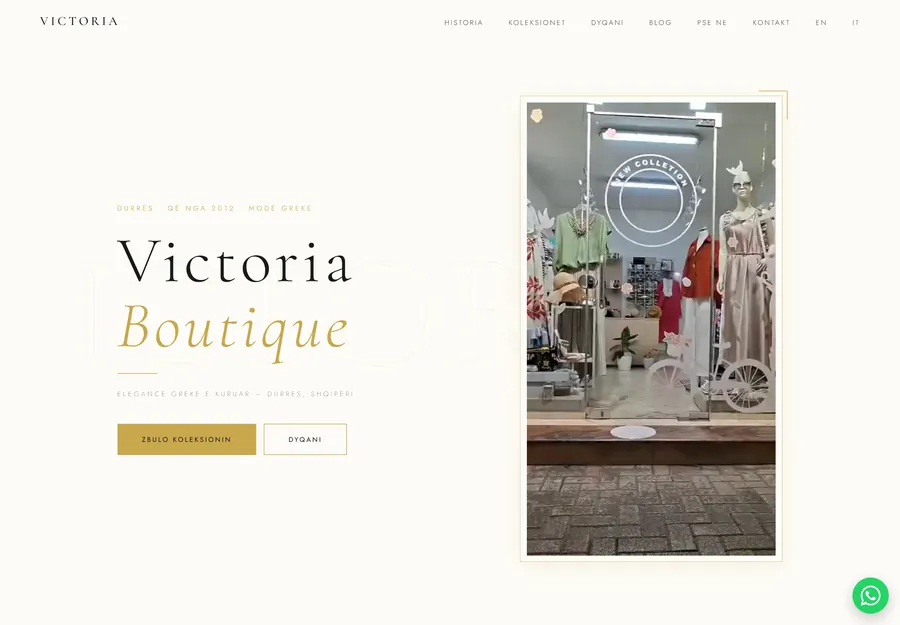
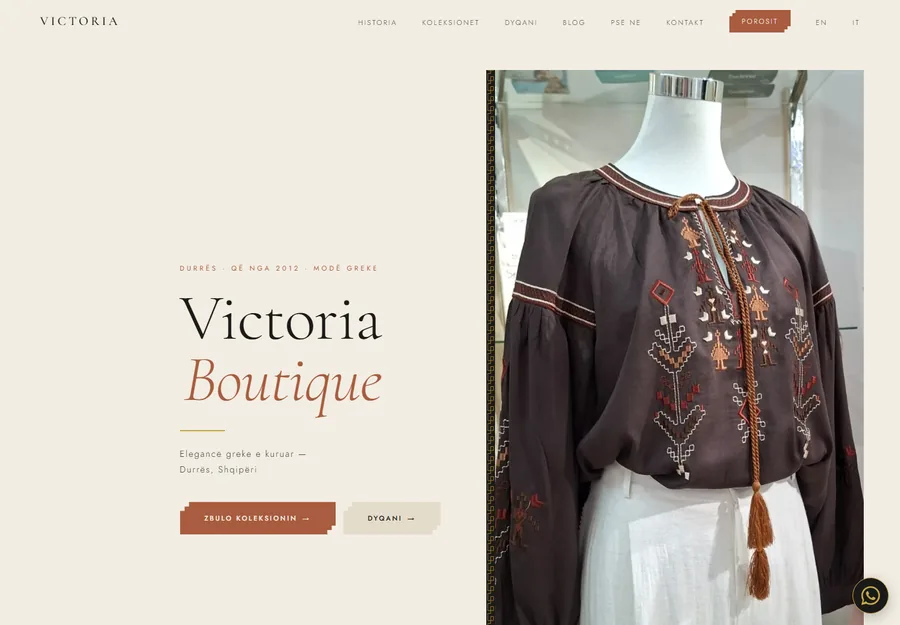
Proof: new plates for Victoria and Intimo Bruna, and alt text that matches them
Both homepages were redesigned today, so the two screenshots on /work/ were
showing sites that no longer exist. Recaptured at 1440x1000 and resized to the
plates' own 900x625 with LANCZOS and WEBP quality 82 method 6 — the same
settings assets/build_renditions.py uses, so the whole set stays encoded alike —
then the 720w renditions regenerated with that script rather than by hand.

THE ALT TEXT MATTERED MORE THAN THE PICTURES. Intimo Bruna's read "a logo card
and a headline over a photograph of the inside of the shop": the logo card and
the shop-interior video are precisely what the redesign removed. Victoria's
named "an editorial layout with the shop photographed", and the shopfront photo
is gone from that hero too. Both rewritten in all three languages to describe
what is now on screen — a screen-reader description of a previous version of the
site is worse than none, because it is confidently wrong.

Re-translated IT and SQ first, then re-stamped with .build/i18n.py --stamp.
The stamp gate is what caught this: it refused to build with the English record
changed and the two translations still claiming the old hash, which is exactly
the failure it was written for.

build_renditions.py also rewrote proof/watch-al-*-720.webp. Those were stale —
their sources changed on 3 September and the renditions had not been rebuilt
since 14 August.

GATE: still 3 findings, all pre-existing and unrelated — the Person node on the
[…]

diff --git a/sq/work/iglisi-watch/index.html b/sq/work/iglisi-watch/index.html
@@ -159,7 +159,7 @@
           <p>Kërko riparim orësh në Durrës, pastaj dyqan orësh në Durrës, në anglisht, shqip ose italisht. Pastaj bëji ChatGPT-së të njëjtat pyetje. Duam më mirë ta kontrollosh vetë sesa të na besosh në fjalë.</p>
           <p>Konkurrenca këtu janë listimet në direktori online dhe faqet e Facebook-ut. Hapësira ishte aty dhe askush nuk e kishte zënë.</p>
           <p class="payoff"><svg class="tick" viewBox="0 0 12 12" aria-hidden="true"><path d="M1 11H5V7H9V3H11" fill="none" stroke="#D8232A" stroke-width="2"/></svg>Nga asgjë te 900 klikime në tremujor.</p>
-          <p class="updated">Përditësuar më <time datetime="2026-09-03">3 shtator 2026</time></p>
+          <p class="updated">Përditësuar më <time datetime="2026-09-05">5 shtator 2026</time></p>
         </div>
 
         <aside class="side" data-reveal-group aria-label="Detaje">
@@ -209,7 +209,7 @@
             <li><span class="stat-n">8,8</span><span class="stat-l">pozicioni mesatar</span></li>
             <li><span class="stat-n">1,1%</span><span class="stat-l">përqindja e klikimeve</span></li>
           </ul>
-          <figure class="gsc"><img src="/assets/proof/watch-al-3-months.webp?v=8a8a16ff" srcset="/assets/proof/watch-al-3-months-720.webp?v=71551ff3 720w, /assets/proof/watch-al-3-months.webp?v=8a8a16ff 1440w" sizes="(min-width: 1280px) 1152px, 90vw" width="1440" height="571" alt="Google Search Console për watch.al gjatë 3 muajve. Klikimet dhe herët e shfaqura nisin të dyja afër zeros në fillim të qershorit 2026 dhe ngjiten gjatë gushtit." loading="lazy" decoding="async"><figcaption>Tre muaj: 2 qershor deri më 30 gusht 2026. 900 klikime, 82k herë e shfaqur, përqindje klikimesh 1,1%.</figcaption></figure><figure class="gsc"><img src="/assets/proof/watch-al-28-days.webp?v=9cd855dc" srcset="/assets/proof/watch-al-28-days-720.webp?v=7a922551 720w, /assets/proof/watch-al-28-days.webp?v=9cd855dc 1440w" sizes="(min-width: 1280px) 1152px, 90vw" width="1440" height="560" alt="Google Search Console për watch.al gjatë 28 ditëve të fundit, me klikimet dhe herët e shfaqura që qëndrojnë njësoj gjatë gushtit 2026." loading="lazy" decoding="async"><figcaption>28 ditët e fundit më vete: 3 gusht deri më 30 gusht. 458 klikime, 33,7k herë e shfaqur, pozicion mesatar 9,7. Më shumë se gjysma e klikimeve të tremujorit erdhën në 4 javët e fundit.</figcaption></figure>
+          <figure class="gsc"><img src="/assets/proof/watch-al-3-months.webp?v=8a8a16ff" srcset="/assets/proof/watch-al-3-months-720.webp?v=6ce628ae 720w, /assets/proof/watch-al-3-months.webp?v=8a8a16ff 1440w" sizes="(min-width: 1280px) 1152px, 90vw" width="1440" height="571" alt="Google Search Console për watch.al gjatë 3 muajve. Klikimet dhe herët e shfaqura nisin të dyja afër zeros në fillim të qershorit 2026 dhe ngjiten gjatë gushtit." loading="lazy" decoding="async"><figcaption>Tre muaj: 2 qershor deri më 30 gusht 2026. 900 klikime, 82k herë e shfaqur, përqindje klikimesh 1,1%.</figcaption></figure><figure class="gsc"><img src="/assets/proof/watch-al-28-days.webp?v=9cd855dc" srcset="/assets/proof/watch-al-28-days-720.webp?v=c019b8f9 720w, /assets/proof/watch-al-28-days.webp?v=9cd855dc 1440w" sizes="(min-width: 1280px) 1152px, 90vw" width="1440" height="560" alt="Google Search Console për watch.al gjatë 28 ditëve të fundit, me klikimet dhe herët e shfaqura që qëndrojnë njësoj gjatë gushtit 2026." loading="lazy" decoding="async"><figcaption>28 ditët e fundit më vete: 3 gusht deri më 30 gusht. 458 klikime, 33,7k herë e shfaqur, pozicion mesatar 9,7. Më shumë se gjysma e klikimeve të tremujorit erdhën në 4 javët e fundit.</figcaption></figure>
           <p class="taken">Marrë në gusht 2026. Renditja lëviz, ndaj do të duket ndryshe kur ta kontrollosh.</p>
       </div>
     </div>

diff --git a/it/work/iglisi-watch/index.html b/it/work/iglisi-watch/index.html
@@ -159,7 +159,7 @@
           <p>Cerca riparazione orologi a Durazzo, poi negozio di orologi a Durazzo, in inglese, albanese o italiano. Poi fai le stesse domande a ChatGPT. Preferiamo che tu controlli, invece di crederci sulla parola.</p>
           <p>Qui la concorrenza sono le schede negli elenchi online e le pagine Facebook. Lo spazio c'era e nessuno l'aveva preso.</p>
           <p class="payoff"><svg class="tick" viewBox="0 0 12 12" aria-hidden="true"><path d="M1 11H5V7H9V3H11" fill="none" stroke="#D8232A" stroke-width="2"/></svg>Da niente a 900 clic a trimestre.</p>
-          <p class="updated">Aggiornato il <time datetime="2026-09-03">3 settembre 2026</time></p>
+          <p class="updated">Aggiornato il <time datetime="2026-09-05">5 settembre 2026</time></p>
         </div>
 
         <aside class="side" data-reveal-group aria-label="Dettagli">
@@ -209,7 +209,7 @@
             <li><span class="stat-n">8,8</span><span class="stat-l">posizione media</span></li>
             <li><span class="stat-n">1,1%</span><span class="stat-l">percentuale di clic</span></li>
           </ul>
-          <figure class="gsc"><img src="/assets/proof/watch-al-3-months.webp?v=8a8a16ff" srcset="/assets/proof/watch-al-3-months-720.webp?v=71551ff3 720w, /assets/proof/watch-al-3-months.webp?v=8a8a16ff 1440w" sizes="(min-width: 1280px) 1152px, 90vw" width="1440" height="571" alt="Google Search Console per watch.al su 3 mesi. I clic e le volte in cui il sito è stato mostrato partono entrambi quasi da zero a inizio giugno 2026 e salgono per tutto agosto." loading="lazy" decoding="async"><figcaption>Tre mesi: dal 2 giugno al 30 agosto 2026. 900 clic, 82k volte mostrato, percentuale di clic dell'1,1%.</figcaption></figure><figure class="gsc"><img src="/assets/proof/watch-al-28-days.webp?v=9cd855dc" srcset="/assets/proof/watch-al-28-days-720.webp?v=7a922551 720w, /assets/proof/watch-al-28-days.webp?v=9cd855dc 1440w" sizes="(min-width: 1280px) 1152px, 90vw" width="1440" height="560" alt="Google Search Console per watch.al negli ultimi 28 giorni, con i clic e le volte in cui il sito è stato mostrato che restano stabili per tutto agosto 2026." loading="lazy" decoding="async"><figcaption>Gli ultimi 28 giorni da soli: dal 3 agosto al 30 agosto. 458 clic, 33,7k volte mostrato, posizione media 9,7. Più della metà dei clic del trimestre è arrivata nelle ultime 4 settimane.</figcaption></figure>
+          <figure class="gsc"><img src="/assets/proof/watch-al-3-months.webp?v=8a8a16ff" srcset="/assets/proof/watch-al-3-months-720.webp?v=6ce628ae 720w, /assets/proof/watch-al-3-months.webp?v=8a8a16ff 1440w" sizes="(min-width: 1280px) 1152px, 90vw" width="1440" height="571" alt="Google Search Console per watch.al su 3 mesi. I clic e le volte in cui il sito è stato mostrato partono entrambi quasi da zero a inizio giugno 2026 e salgono per tutto agosto." loading="lazy" decoding="async"><figcaption>Tre mesi: dal 2 giugno al 30 agosto 2026. 900 clic, 82k volte mostrato, percentuale di clic dell'1,1%.</figcaption></figure><figure class="gsc"><img src="/assets/proof/watch-al-28-days.webp?v=9cd855dc" srcset="/assets/proof/watch-al-28-days-720.webp?v=c019b8f9 720w, /assets/proof/watch-al-28-days.webp?v=9cd855dc 1440w" sizes="(min-width: 1280px) 1152px, 90vw" width="1440" height="560" alt="Google Search Console per watch.al negli ultimi 28 giorni, con i clic e le volte in cui il sito è stato mostrato che restano stabili per tutto agosto 2026." loading="lazy" decoding="async"><figcaption>Gli ultimi 28 giorni da soli: dal 3 agosto al 30 agosto. 458 clic, 33,7k volte mostrato, posizione media 9,7. Più della metà dei clic del trimestre è arrivata nelle ultime 4 settimane.</figcaption></figure>
           <p class="taken">Rilevato ad agosto 2026. Il posizionamento cambia, quindi sarà diverso quando controlli.</p>
       </div>
     </div>

diff --git a/work/iglisi-watch/index.html b/work/iglisi-watch/index.html
@@ -160,7 +160,7 @@
           <p>Search for watch repair in Durres, then for a watch shop in Durres, in English, Albanian or Italian. Then ask ChatGPT the same questions. We would rather you checked than took our word for it.</p>
           <p>The competition here is directory listings and Facebook pages. The opening was there and nobody had taken it.</p>
           <p class="payoff"><svg class="tick" viewBox="0 0 12 12" aria-hidden="true"><path d="M1 11H5V7H9V3H11" fill="none" stroke="#D8232A" stroke-width="2"/></svg>From nothing to 900 clicks a quarter.</p>
-          <p class="updated">Updated <time datetime="2026-09-03">3 September 2026</time></p>
+          <p class="updated">Updated <time datetime="2026-09-05">5 September 2026</time></p>
         </div>
 
         <aside class="side" data-reveal-group aria-label="Details">
@@ -210,7 +210,7 @@
             <li><span class="stat-n">8.8</span><span class="stat-l">average position</span></li>
             <li><span class="stat-n">1.1%</span><span class="stat-l">click rate</span></li>
           </ul>
-          <figure class="gsc"><img src="/assets/proof/watch-al-3-months.webp?v=8a8a16ff" srcset="/assets/proof/watch-al-3-months-720.webp?v=71551ff3 720w, /assets/proof/watch-al-3-months.webp?v=8a8a16ff 1440w" sizes="(min-width: 1280px) 1152px, 90vw" width="1440" height="571" alt="Google Search Console for watch.al over 3 months. Clicks and impressions both start near zero in early June 2026 and climb through August." loading="lazy" decoding="async"><figcaption>Three months: 2 June to 30 August 2026. 900 clicks, 82k times shown, 1.1% click rate.</figcaption></figure><figure class="gsc"><img src="/assets/proof/watch-al-28-days.webp?v=9cd855dc" srcset="/assets/proof/watch-al-28-days-720.webp?v=7a922551 720w, /assets/proof/watch-al-28-days.webp?v=9cd855dc 1440w" sizes="(min-width: 1280px) 1152px, 90vw" width="1440" height="560" alt="Google Search Console for watch.al over the last 28 days, showing clicks and impressions holding steady through August 2026." loading="lazy" decoding="async"><figcaption>The last 28 days on their own: 3 August to 30 August. 458 clicks, 33.7k times shown, average position 9.7. More than half the quarter&apos;s clicks landed in the final 4 weeks.</figcaption></figure>
+          <figure class="gsc"><img src="/assets/proof/watch-al-3-months.webp?v=8a8a16ff" srcset="/assets/proof/watch-al-3-months-720.webp?v=6ce628ae 720w, /assets/proof/watch-al-3-months.webp?v=8a8a16ff 1440w" sizes="(min-width: 1280px) 1152px, 90vw" width="1440" height="571" alt="Google Search Console for watch.al over 3 months. Clicks and impressions both start near zero in early June 2026 and climb through August." loading="lazy" decoding="async"><figcaption>Three months: 2 June to 30 August 2026. 900 clicks, 82k times shown, 1.1% click rate.</figcaption></figure><figure class="gsc"><img src="/assets/proof/watch-al-28-days.webp?v=9cd855dc" srcset="/assets/proof/watch-al-28-days-720.webp?v=c019b8f9 720w, /assets/proof/watch-al-28-days.webp?v=9cd855dc 1440w" sizes="(min-width: 1280px) 1152px, 90vw" width="1440" height="560" alt="Google Search Console for watch.al over the last 28 days, showing clicks and impressions holding steady through August 2026." loading="lazy" decoding="async"><figcaption>The last 28 days on their own: 3 August to 30 August. 458 clicks, 33.7k times shown, average position 9.7. More than half the quarter&apos;s clicks landed in the final 4 weeks.</figcaption></figure>
           <p class="taken">Taken August 2026. Rankings move, so it will look different when you check.</p>
       </div>
     </div>

diff --git a/it/work/index.html b/it/work/index.html
@@ -208,7 +208,7 @@
                 <p class="case-said">La proprietaria mette un capo nuovo sul sito dal telefono, e non paga a nessuno un canone mensile per farlo.</p>
                 <p class="case-said"><a href="/it/work/victoria-boutique/">Cosa abbiamo costruito <svg class="arrow" viewBox="0 0 12 12" aria-hidden="true"><path d="M3 9L9 3M9 3H4M9 3V8" fill="none" stroke="currentColor" stroke-width="1.6"/></svg></a></p>
               </div>
-              <figure class="plate"><img src="/assets/plates/victoria-home.webp?v=6e7173f8" srcset="/assets/plates/victoria-home-720.webp?v=11495053 720w, /assets/plates/victoria-home.webp?v=6e7173f8 900w" sizes="(min-width: 1000px) 560px, 90vw" width="900" height="625" alt="La homepage di Victoria Boutique, un impaginato editoriale con la foto del negozio" loading="lazy" decoding="async"><figcaption>Victoria Boutique, victoriaboutique.org</figcaption></figure>
+              <figure class="plate"><img src="/assets/plates/victoria-home.webp?v=69c9c43e" srcset="/assets/plates/victoria-home-720.webp?v=57777483 720w, /assets/plates/victoria-home.webp?v=69c9c43e 900w" sizes="(min-width: 1000px) 560px, 90vw" width="900" height="625" alt="La homepage di Victoria Boutique, il marchio su fondo calce accanto a una camicetta greca ricamata, con un meandro a separarli" loading="lazy" decoding="async"><figcaption>Victoria Boutique, victoriaboutique.org</figcaption></figure>
             </div>
           </li>
           <li>
@@ -219,7 +219,7 @@
                 <p class="case-said">Ogni ordine parte da un messaggio WhatsApp, perché è così che questo mercato compra davvero.</p>
                 <p class="case-said"><a href="/it/work/intimo-bruna/">Cosa abbiamo costruito <svg class="arrow" viewBox="0 0 12 12" aria-hidden="true"><path d="M3 9L9 3M9 3H4M9 3V8" fill="none" stroke="currentColor" stroke-width="1.6"/></svg></a></p>
               </div>
-              <figure class="plate"><img src="/assets/plates/bruna-home.webp?v=afdfa15a" srcset="/assets/plates/bruna-home-720.webp?v=025b8a99 720w, /assets/plates/bruna-home.webp?v=afdfa15a 900w" sizes="(min-width: 1000px) 560px, 90vw" width="900" height="625" alt="La homepage di Intimo Bruna, il riquadro con il logo e un titolo sopra la fotografia dell'interno del negozio" loading="lazy" decoding="async"><figcaption>Intimo Bruna, intimobruna.com</figcaption></figure>
+              <figure class="plate"><img src="/assets/plates/bruna-home.webp?v=09fdc639" srcset="/assets/plates/bruna-home-720.webp?v=e1049dea 720w, /assets/plates/bruna-home.webp?v=09fdc639 900w" sizes="(min-width: 1000px) 560px, 90vw" width="900" height="625" alt="La homepage di Intimo Bruna, un titolo su fondo lino accanto alla fotografia di reggiseni in tonalita naturali" loading="lazy" decoding="async"><figcaption>Intimo Bruna, intimobruna.com</figcaption></figure>
             </div>
           </li>
           <li>
@@ -235,7 +235,7 @@
           </li>
         </ul>
       </section>
-      <p class="updated">Aggiornato il <time datetime="2026-09-03">3 settembre 2026</time></p>
+      <p class="updated">Aggiornato il <time datetime="2026-09-05">5 settembre 2026</time></p>
     </div>
   </main>
 

diff --git a/sq/work/index.html b/sq/work/index.html
@@ -208,7 +208,7 @@
                 <p class="case-said">Pronarja vendos një veshje të re në faqe nga telefoni, dhe nuk i paguan askujt një tarifë mujore për këtë.</p>
                 <p class="case-said"><a href="/sq/work/victoria-boutique/">Çfarë ndërtuam <svg class="arrow" viewBox="0 0 12 12" aria-hidden="true"><path d="M3 9L9 3M9 3H4M9 3V8" fill="none" stroke="currentColor" stroke-width="1.6"/></svg></a></p>
               </div>
-              <figure class="plate"><img src="/assets/plates/victoria-home.webp?v=6e7173f8" srcset="/assets/plates/victoria-home-720.webp?v=11495053 720w, /assets/plates/victoria-home.webp?v=6e7173f8 900w" sizes="(min-width: 1000px) 560px, 90vw" width="900" height="625" alt="Ballina e Victoria Boutique, një faqosje editoriale me foton e dyqanit" loading="lazy" decoding="async"><figcaption>Victoria Boutique, victoriaboutique.org</figcaption></figure>
+              <figure class="plate"><img src="/assets/plates/victoria-home.webp?v=69c9c43e" srcset="/assets/plates/victoria-home-720.webp?v=57777483 720w, /assets/plates/victoria-home.webp?v=69c9c43e 900w" sizes="(min-width: 1000px) 560px, 90vw" width="900" height="625" alt="Ballina e Victoria Boutique, marka mbi sfond gëlqereje pranë një bluze greke të qëndisur, me një meandër që i ndan" loading="lazy" decoding="async"><figcaption>Victoria Boutique, victoriaboutique.org</figcaption></figure>
             </div>
           </li>
           <li>
@@ -219,7 +219,7 @@
                 <p class="case-said">Çdo porosi nis si mesazh në WhatsApp, sepse kështu blen vërtet ky treg.</p>
                 <p class="case-said"><a href="/sq/work/intimo-bruna/">Çfarë ndërtuam <svg class="arrow" viewBox="0 0 12 12" aria-hidden="true"><path d="M3 9L9 3M9 3H4M9 3V8" fill="none" stroke="currentColor" stroke-width="1.6"/></svg></a></p>
               </div>
-              <figure class="plate"><img src="/assets/plates/bruna-home.webp?v=afdfa15a" srcset="/assets/plates/bruna-home-720.webp?v=025b8a99 720w, /assets/plates/bruna-home.webp?v=afdfa15a 900w" sizes="(min-width: 1000px) 560px, 90vw" width="900" height="625" alt="Ballina e Intimo Bruna, karta me logon dhe një titull mbi një fotografi brenda dyqanit" loading="lazy" decoding="async"><figcaption>Intimo Bruna, intimobruna.com</figcaption></figure>
+              <figure class="plate"><img src="/assets/plates/bruna-home.webp?v=09fdc639" srcset="/assets/plates/bruna-home-720.webp?v=e1049dea 720w, /assets/plates/bruna-home.webp?v=09fdc639 900w" sizes="(min-width: 1000px) 560px, 90vw" width="900" height="625" alt="Ballina e Intimo Bruna, një titull mbi sfond liri pranë fotografisë së sytjenave në ngjyra natyrale" loading="lazy" decoding="async"><figcaption>Intimo Bruna, intimobruna.com</figcaption></figure>
             </div>
           </li>
           <li>
@@ -235,7 +235,7 @@
           </li>
         </ul>
       </section>
-      <p class="updated">Përditësuar më <time datetime="2026-09-03">3 shtator 2026</time></p>
+      <p class="updated">Përditësuar më <time datetime="2026-09-05">5 shtator 2026</time></p>
     </div>
   </main>
 

diff --git a/work/index.html b/work/index.html
@@ -209,7 +209,7 @@
                 <p class="case-said">The owner puts a new piece on the site from her phone, and pays nobody a monthly fee to do it.</p>
                 <p class="case-said"><a href="/work/victoria-boutique/">What we built <svg class="arrow" viewBox="0 0 12 12" aria-hidden="true"><path d="M3 9L9 3M9 3H4M9 3V8" fill="none" stroke="currentColor" stroke-width="1.6"/></svg></a></p>
               </div>
-              <figure class="plate"><img src="/assets/plates/victoria-home.webp?v=6e7173f8" srcset="/assets/plates/victoria-home-720.webp?v=11495053 720w, /assets/plates/victoria-home.webp?v=6e7173f8 900w" sizes="(min-width: 1000px) 560px, 90vw" width="900" height="625" alt="The Victoria Boutique homepage, an editorial layout with the shop photographed" loading="lazy" decoding="async"><figcaption>Victoria Boutique, victoriaboutique.org</figcaption></figure>
+              <figure class="plate"><img src="/assets/plates/victoria-home.webp?v=69c9c43e" srcset="/assets/plates/victoria-home-720.webp?v=57777483 720w, /assets/plates/victoria-home.webp?v=69c9c43e 900w" sizes="(min-width: 1000px) 560px, 90vw" width="900" height="625" alt="The Victoria Boutique homepage, the wordmark set on limewash beside a Greek embroidered blouse, a meander running down between them" loading="lazy" decoding="async"><figcaption>Victoria Boutique, victoriaboutique.org</figcaption></figure>
             </div>
           </li>
           <li>
@@ -220,7 +220,7 @@
                 <p class="case-said">Every order starts as a WhatsApp message, because that's how this market actually buys.</p>
                 <p class="case-said"><a href="/work/intimo-bruna/">What we built <svg class="arrow" viewBox="0 0 12 12" aria-hidden="true"><path d="M3 9L9 3M9 3H4M9 3V8" fill="none" stroke="currentColor" stroke-width="1.6"/></svg></a></p>
               </div>
-              <figure class="plate"><img src="/assets/plates/bruna-home.webp?v=afdfa15a" srcset="/assets/plates/bruna-home-720.webp?v=025b8a99 720w, /assets/plates/bruna-home.webp?v=afdfa15a 900w" sizes="(min-width: 1000px) 560px, 90vw" width="900" height="625" alt="The Intimo Bruna homepage, a logo card and a headline over a photograph of the inside of the shop" loading="lazy" decoding="async"><figcaption>Intimo Bruna, intimobruna.com</figcaption></figure>
+              <figure class="plate"><img src="/assets/plates/bruna-home.webp?v=09fdc639" srcset="/assets/plates/bruna-home-720.webp?v=e1049dea 720w, /assets/plates/bruna-home.webp?v=09fdc639 900w" sizes="(min-width: 1000px) 560px, 90vw" width="900" height="625" alt="The Intimo Bruna homepage, a headline on linen beside a photograph of bras in natural tones" loading="lazy" decoding="async"><figcaption>Intimo Bruna, intimobruna.com</figcaption></figure>
             </div>
           </li>
           <li>
@@ -236,7 +236,7 @@
           </li>
         </ul>
       </section>
-      <p class="updated">Updated <time datetime="2026-09-03">3 September 2026</time></p>
+      <p class="updated">Updated <time datetime="2026-09-05">5 September 2026</time></p>
     </div>
   </main>
 

diff --git a/it/work/victoria-boutique/index.html b/it/work/victoria-boutique/index.html
@@ -158,12 +158,12 @@
           <p>Lo fa lei. Il negozio aggiorna da solo il proprio sito, il che vuol dire che il sito tiene il passo con la merce invece di restare indietro di una stagione.</p>
           <p>È anche il progetto in cui una cosa fatta una volta sola è diventata qualcosa da passare al cliente successivo.</p>
           <p class="payoff"><svg class="tick" viewBox="0 0 12 12" aria-hidden="true"><path d="M1 11H5V7H9V3H11" fill="none" stroke="#D8232A" stroke-width="2"/></svg>Il negozio aggiorna da solo il sito.</p>
-          <p class="updated">Aggiornato il <time datetime="2026-09-03">3 settembre 2026</time></p>
+          <p class="updated">Aggiornato il <time datetime="2026-09-05">5 settembre 2026</time></p>
         </div>
 
         <aside class="side" data-reveal-group aria-label="Dettagli">
           <div class="side-block">
-            <figure class="plate"><img src="/assets/plates/victoria-home.webp?v=6e7173f8" srcset="/assets/plates/victoria-home-720.webp?v=11495053 720w, /assets/plates/victoria-home.webp?v=6e7173f8 900w" sizes="(min-width: 1000px) 370px, 90vw" width="900" height="625" alt="La homepage di Victoria Boutique, un impaginato editoriale con la foto del negozio"><figcaption>Victoria Boutique, victoriaboutique.org</figcaption></figure>
+            <figure class="plate"><img src="/assets/plates/victoria-home.webp?v=69c9c43e" srcset="/assets/plates/victoria-home-720.webp?v=57777483 720w, /assets/plates/victoria-home.webp?v=69c9c43e 900w" sizes="(min-width: 1000px) 370px, 90vw" width="900" height="625" alt="La homepage di Victoria Boutique, il marchio su fondo calce accanto a una camicetta greca ricamata, con un meandro a separarli"><figcaption>Victoria Boutique, victoriaboutique.org</figcaption></figure>
           </div>
           <div class="side-block">
             <p class="side-h">Cosa abbiamo fatto</p>

diff --git a/sq/work/victoria-boutique/index.html b/sq/work/victoria-boutique/index.html
@@ -158,12 +158,12 @@
           <p>E bën ajo. Dyqani kujdeset vetë për faqen e vet, që do të thotë se faqja mban hapin me stokun në vend që të mbetet një stinë pas.</p>
           <p>Është edhe ndërtimi ku një gjë e bërë vetëm një herë u kthye në diçka që mund t'ia jepnim klientit të radhës.</p>
           <p class="payoff"><svg class="tick" viewBox="0 0 12 12" aria-hidden="true"><path d="M1 11H5V7H9V3H11" fill="none" stroke="#D8232A" stroke-width="2"/></svg>Dyqani e përditëson vetë faqen.</p>
-          <p class="updated">Përditësuar më <time datetime="2026-09-03">3 shtator 2026</time></p>
+          <p class="updated">Përditësuar më <time datetime="2026-09-05">5 shtator 2026</time></p>
         </div>
 
         <aside class="side" data-reveal-group aria-label="Detaje">
           <div class="side-block">
-            <figure class="plate"><img src="/assets/plates/victoria-home.webp?v=6e7173f8" srcset="/assets/plates/victoria-home-720.webp?v=11495053 720w, /assets/plates/victoria-home.webp?v=6e7173f8 900w" sizes="(min-width: 1000px) 370px, 90vw" width="900" height="625" alt="Ballina e Victoria Boutique, një faqosje editoriale me foton e dyqanit"><figcaption>Victoria Boutique, victoriaboutique.org</figcaption></figure>
+            <figure class="plate"><img src="/assets/plates/victoria-home.webp?v=69c9c43e" srcset="/assets/plates/victoria-home-720.webp?v=57777483 720w, /assets/plates/victoria-home.webp?v=69c9c43e 900w" sizes="(min-width: 1000px) 370px, 90vw" width="900" height="625" alt="Ballina e Victoria Boutique, marka mbi sfond gëlqereje pranë një bluze greke të qëndisur, me një meandër që i ndan"><figcaption>Victoria Boutique, victoriaboutique.org</figcaption></figure>
           </div>
           <div class="side-block">
             <p class="side-h">Çfarë bëmë</p>

diff --git a/it/work/intimo-bruna/index.html b/it/work/intimo-bruna/index.html
@@ -158,12 +158,12 @@
           <p>Su WhatsApp, di proposito. Il compito del sito è portare qualcuno lì con l'articolo giusto già nel messaggio.</p>
           <p>Si carica anche in fretta su un telefono con i dati mobili, che è come lo aprirà la maggior parte di questi clienti.</p>
           <p class="payoff"><svg class="tick" viewBox="0 0 12 12" aria-hidden="true"><path d="M1 11H5V7H9V3H11" fill="none" stroke="#D8232A" stroke-width="2"/></svg>Costruito per come compra questo mercato.</p>
-          <p class="updated">Aggiornato il <time datetime="2026-09-03">3 settembre 2026</time></p>
+          <p class="updated">Aggiornato il <time datetime="2026-09-05">5 settembre 2026</time></p>
         </div>
 
         <aside class="side" data-reveal-group aria-label="Dettagli">
           <div class="side-block">
-            <figure class="plate"><img src="/assets/plates/bruna-home.webp?v=afdfa15a" srcset="/assets/plates/bruna-home-720.webp?v=025b8a99 720w, /assets/plates/bruna-home.webp?v=afdfa15a 900w" sizes="(min-width: 1000px) 370px, 90vw" width="900" height="625" alt="La homepage di Intimo Bruna, il riquadro con il logo e un titolo sopra la fotografia dell'interno del negozio"><figcaption>Intimo Bruna, intimobruna.com</figcaption></figure>
+            <figure class="plate"><img src="/assets/plates/bruna-home.webp?v=09fdc639" srcset="/assets/plates/bruna-home-720.webp?v=e1049dea 720w, /assets/plates/bruna-home.webp?v=09fdc639 900w" sizes="(min-width: 1000px) 370px, 90vw" width="900" height="625" alt="La homepage di Intimo Bruna, un titolo su fondo lino accanto alla fotografia di reggiseni in tonalita naturali"><figcaption>Intimo Bruna, intimobruna.com</figcaption></figure>
           </div>
           <div class="side-block">
             <p class="side-h">Cosa abbiamo fatto</p>

diff --git a/work/victoria-boutique/index.html b/work/victoria-boutique/index.html
@@ -159,12 +159,12 @@
           <p>She does. The shop updates its own site, which means the site keeps up with the stock instead of drifting a season behind it.</p>
           <p>This is also the build where a one-off became something we could hand to the next client.</p>
           <p class="payoff"><svg class="tick" viewBox="0 0 12 12" aria-hidden="true"><path d="M1 11H5V7H9V3H11" fill="none" stroke="#D8232A" stroke-width="2"/></svg>The shop updates its own website.</p>
-          <p class="updated">Updated <time datetime="2026-09-03">3 September 2026</time></p>
+          <p class="updated">Updated <time datetime="2026-09-05">5 September 2026</time></p>
         </div>
 
         <aside class="side" data-reveal-group aria-label="Details">
           <div class="side-block">
-            <figure class="plate"><img src="/assets/plates/victoria-home.webp?v=6e7173f8" srcset="/assets/plates/victoria-home-720.webp?v=11495053 720w, /assets/plates/victoria-home.webp?v=6e7173f8 900w" sizes="(min-width: 1000px) 370px, 90vw" width="900" height="625" alt="The Victoria Boutique homepage, an editorial layout with the shop photographed"><figcaption>Victoria Boutique, victoriaboutique.org</figcaption></figure>
+            <figure class="plate"><img src="/assets/plates/victoria-home.webp?v=69c9c43e" srcset="/assets/plates/victoria-home-720.webp?v=57777483 720w, /assets/plates/victoria-home.webp?v=69c9c43e 900w" sizes="(min-width: 1000px) 370px, 90vw" width="900" height="625" alt="The Victoria Boutique homepage, the wordmark set on limewash beside a Greek embroidered blouse, a meander running down between them"><figcaption>Victoria Boutique, victoriaboutique.org</figcaption></figure>
           </div>
           <div class="side-block">
             <p class="side-h">What we did</p>

diff --git a/sq/work/intimo-bruna/index.html b/sq/work/intimo-bruna/index.html
@@ -158,12 +158,12 @@
           <p>Në WhatsApp, me qëllim. Puna e faqes është të çojë dikë atje me artikullin e duhur tashmë në mesazh.</p>
           <p>Ngarkohet shpejt edhe në telefon me të dhëna celulare, që është mënyra si do ta hapin shumica e këtyre klientëve.</p>
           <p class="payoff"><svg class="tick" viewBox="0 0 12 12" aria-hidden="true"><path d="M1 11H5V7H9V3H11" fill="none" stroke="#D8232A" stroke-width="2"/></svg>Ndërtuar për mënyrën si blen ky treg.</p>
-          <p class="updated">Përditësuar më <time datetime="2026-09-03">3 shtator 2026</time></p>
+          <p class="updated">Përditësuar më <time datetime="2026-09-05">5 shtator 2026</time></p>
         </div>
 
         <aside class="side" data-reveal-group aria-label="Detaje">
           <div class="side-block">
-            <figure class="plate"><img src="/assets/plates/bruna-home.webp?v=afdfa15a" srcset="/assets/plates/bruna-home-720.webp?v=025b8a99 720w, /assets/plates/bruna-home.webp?v=afdfa15a 900w" sizes="(min-width: 1000px) 370px, 90vw" width="900" height="625" alt="Ballina e Intimo Bruna, karta me logon dhe një titull mbi një fotografi brenda dyqanit"><figcaption>Intimo Bruna, intimobruna.com</figcaption></figure>
+            <figure class="plate"><img src="/assets/plates/bruna-home.webp?v=09fdc639" srcset="/assets/plates/bruna-home-720.webp?v=e1049dea 720w, /assets/plates/bruna-home.webp?v=09fdc639 900w" sizes="(min-width: 1000px) 370px, 90vw" width="900" height="625" alt="Ballina e Intimo Bruna, një titull mbi sfond liri pranë fotografisë së sytjenave në ngjyra natyrale"><figcaption>Intimo Bruna, intimobruna.com</figcaption></figure>
           </div>
           <div class="side-block">
             <p class="side-h">Çfarë bëmë</p>

diff --git a/work/intimo-bruna/index.html b/work/intimo-bruna/index.html
@@ -159,12 +159,12 @@
           <p>In WhatsApp, deliberately. The site's job is to get someone there with the right item already in the message.</p>
           <p>It also loads fast on a phone on mobile data, which is how most of these customers will open it.</p>
           <p class="payoff"><svg class="tick" viewBox="0 0 12 12" aria-hidden="true"><path d="M1 11H5V7H9V3H11" fill="none" stroke="#D8232A" stroke-width="2"/></svg>Built for how this market buys.</p>
-          <p class="updated">Updated <time datetime="2026-09-03">3 September 2026</time></p>
+          <p class="updated">Updated <time datetime="2026-09-05">5 September 2026</time></p>
         </div>
 
         <aside class="side" data-reveal-group aria-label="Details">
           <div class="side-block">
-            <figure class="plate"><img src="/assets/plates/bruna-home.webp?v=afdfa15a" srcset="/assets/plates/bruna-home-720.webp?v=025b8a99 720w, /assets/plates/bruna-home.webp?v=afdfa15a 900w" sizes="(min-width: 1000px) 370px, 90vw" width="900" height="625" alt="The Intimo Bruna homepage, a logo card and a headline over a photograph of the inside of the shop"><figcaption>Intimo Bruna, intimobruna.com</figcaption></figure>
+            <figure class="plate"><img src="/assets/plates/bruna-home.webp?v=09fdc639" srcset="/assets/plates/bruna-home-720.webp?v=e1049dea 720w, /assets/plates/bruna-home.webp?v=09fdc639 900w" sizes="(min-width: 1000px) 370px, 90vw" width="900" height="625" alt="The Intimo Bruna homepage, a headline on linen beside a photograph of bras in natural tones"><figcaption>Intimo Bruna, intimobruna.com</figcaption></figure>
           </div>
           <div class="side-block">
             <p class="side-h">What we did</p>
